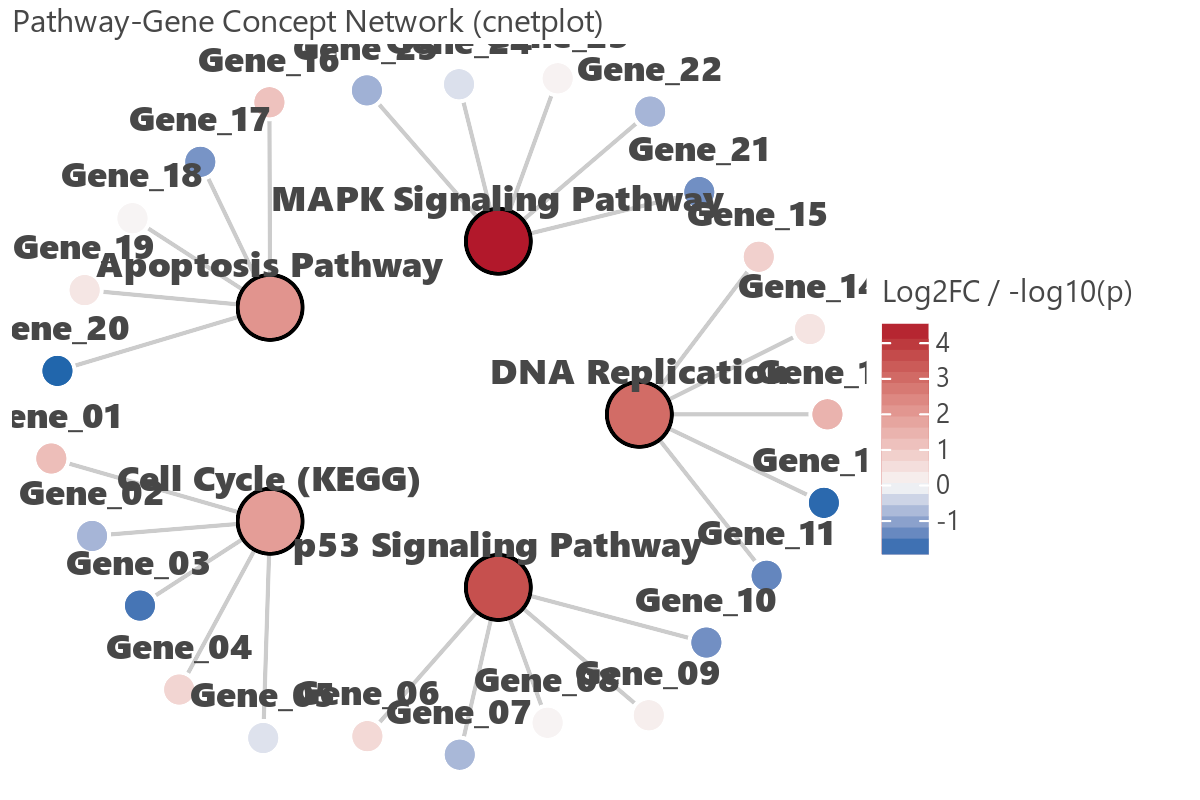
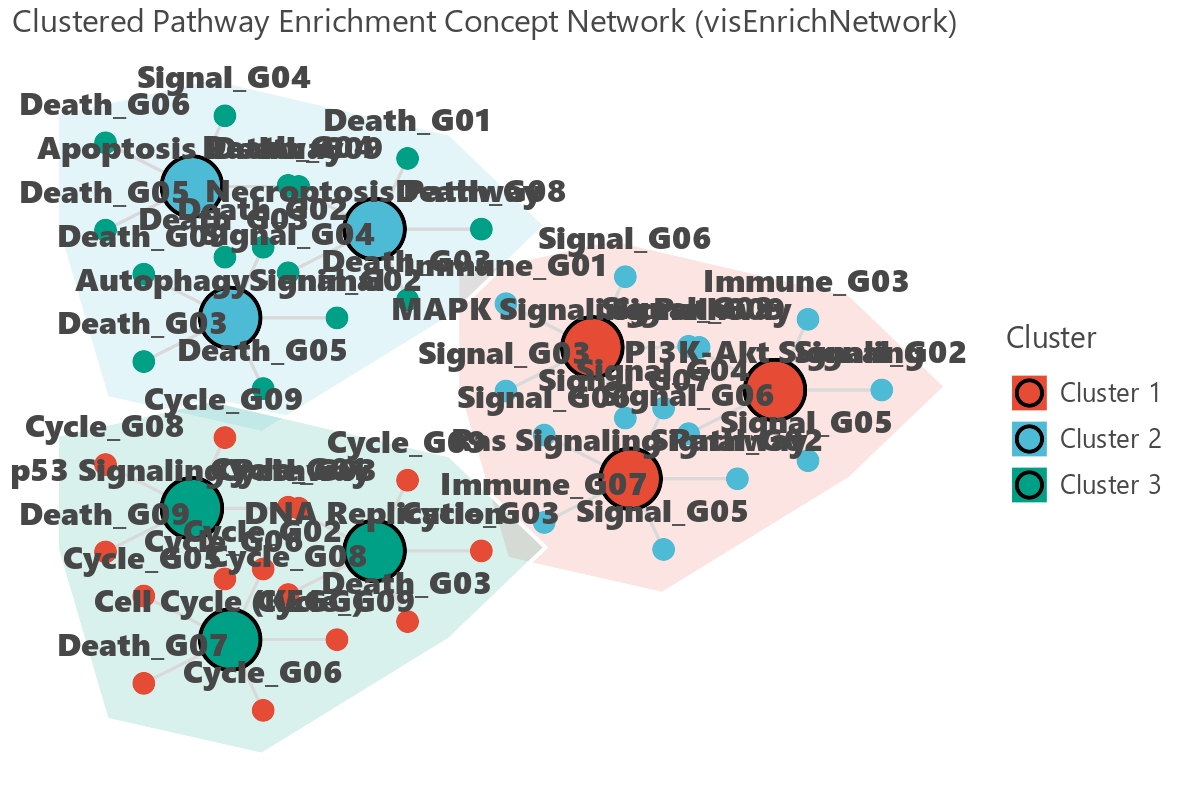
feat: Add pathway clustering analysis & convex hull background polygons for enrichment network chart

diff --git a/src/letspubpy/plots.py b/src/letspubpy/plots.py
@@ -1,7 +1,8 @@
 import numpy as np
 import pandas as pd
 from scipy import stats as _scipy_stats
-from scipy.spatial.distance import pdist as _pdist
+from scipy.spatial import ConvexHull as _ConvexHull
+from scipy.spatial.distance import pdist as _pdist, squareform as _squareform
 from scipy.cluster.hierarchy import linkage as _linkage, dendrogram as _dendrogram, fcluster as _fcluster
 from scipy.ndimage import gaussian_filter1d as _gaussian_filter1d
 from lets_plot import (
@@ -2222,7 +2223,7 @@ ggblitzgsea = blitzgsea_plot
 # GSEA / ORA Enrichment Lollipop & Concept Network Visualization
 # ==============================================================================
 
-def sim_enrichment_data(n_terms=10, seed=42):
+def sim_enrichment_data(n_terms=9, seed=42):
     """
     Simulate synthetic pathway enrichment dataset (GO/KEGG/Reactome) for lollipop & network charts.
     Returns DataFrame with columns: Term, Count, p.adjust, RichFactor, Genes, Log2FC.
@@ -2230,22 +2231,30 @@ def sim_enrichment_data(n_terms=10, seed=42):
     np.random.seed(seed)
     pathways = [
         'Cell Cycle (KEGG)', 'p53 Signaling Pathway', 'DNA Replication',
-        'Apoptosis Pathway', 'MAPK Signaling Pathway', 'PI3K-Akt Signaling',
-        'NF-kappa B Signaling', 'Toll-like Receptor', 'FoxO Signaling Pathway',
-        'JAK-STAT Signaling', 'Autophagy - animal', 'Mitophagy - animal'
+        'Apoptosis Pathway', 'Necroptosis Pathway', 'Autophagy - animal',
+        'MAPK Signaling Pathway', 'PI3K-Akt Signaling', 'Ras Signaling Pathway',
+        'NF-kappa B Signaling', 'Toll-like Receptor', 'FoxO Signaling Pathway'
     ]
     terms = pathways[:min(n_terms, len(pathways))]
     
-    counts = np.random.randint(8, 45, size=len(terms))
-    pvals = 10 ** (-np.random.uniform(1.5, 6.0, size=len(terms)))
+    counts = np.random.randint(12, 45, size=len(terms))
+    pvals = 10 ** (-np.random.uniform(1.8, 6.5, size=len(terms)))
     rich_factors = counts / np.random.randint(60, 150, size=len(terms))
     
+    gene_pools = {
+        0: [f'Cycle_G{j:02d}' for j in range(1, 10)],
+        1: [f'Death_G{j:02d}' for j in range(1, 10)],
+        2: [f'Signal_G{j:02d}' for j in range(1, 10)],
+        3: [f'Immune_G{j:02d}' for j in range(1, 10)]
+    }
+
     genes_list = []
-    gene_counter = 1
-    for count in counts:
-        hit_genes = [f"Gene_{gene_counter + j:02d}" for j in range(min(5, count // 3))]
-        gene_counter += min(5, count // 3)
-        genes_list.append(";".join(hit_genes))
+    for i, term in enumerate(terms):
+        c_idx = (i // 3) % len(gene_pools)
+        main_genes = list(np.random.choice(gene_pools[c_idx], size=4, replace=False))
+        cross_pool = gene_pools[(c_idx + 1) % len(gene_pools)]
+        main_genes.append(np.random.choice(cross_pool))
+        genes_list.append(";".join(main_genes))
 
     df = pd.DataFrame({
         'Term': terms,
@@ -2317,100 +2326,168 @@ gglollipop_enrich = visEnrichLollipop
 
 def visEnrichNetwork(
     data=None,
-    top_n=5,
+    top_n=9,
     genes_per_term=4,
+    cluster_pathways=True,
+    n_clusters=3,
+    show_hulls=True,
+    cluster_palette='npg',
     palette='bwr',
-    title='Enrichment Pathway-Gene Concept Network (cnetplot)',
+    title='Clustered Pathway Enrichment Concept Network (cnetplot)',
     **kwargs
 ):
     """
-    Visualize Pathway-Gene Concept Network (cnetplot / network图) connecting enriched pathways with hit genes.
-    If data is None, automatically generates synthetic network data.
+    Visualize Pathway-Gene Concept Network (cnetplot / network图) with pathway clustering analysis.
+    Performs hierarchical clustering on pathway gene-overlap Jaccard distance matrix.
     """
     if data is None:
         df_enrich = sim_enrichment_data(n_terms=top_n)
     else:
         df_enrich = data.head(top_n).copy()
 
-    nodes = []
-    edges = []
     pathways = df_enrich['Term'].tolist()[:top_n]
     n_terms = len(pathways)
-    t_angles = np.linspace(0, 2*np.pi, n_terms, endpoint=False)
-    r_pathway = 4.0
-    
-    pathway_coords = {}
     np.random.seed(42)
 
+    # Build gene hits mapping for each pathway
+    term_genes = {}
+    for p_name in pathways:
+        p_row = df_enrich[df_enrich['Term'] == p_name].iloc[0] if 'Term' in df_enrich.columns else None
+        if p_row is not None and 'Genes' in p_row and pd.notna(p_row['Genes']):
+            genes = set(str(p_row['Genes']).split(';'))
+        else:
+            genes = set([f'{p_name[:3]}_Gene_{j+1:02d}' for j in range(genes_per_term)])
+        term_genes[p_name] = genes
+
+    # Clustering analysis if enabled
+    if cluster_pathways and n_terms >= 3:
+        n_clusters = min(n_clusters, n_terms // 2 if n_terms >= 4 else 2)
+        dist_mat = np.zeros((n_terms, n_terms))
+        for i in range(n_terms):
+            for j in range(n_terms):
+                if i != j:
+                    g1, g2 = term_genes[pathways[i]], term_genes[pathways[j]]
+                    jaccard = len(g1 & g2) / max(1, len(g1 | g2))
+                    dist_mat[i, j] = 1.0 - jaccard
+
+        Z = _linkage(_squareform(dist_mat), method='ward')
+        cluster_labels = _fcluster(Z, t=n_clusters, criterion='maxclust')
+    else:
+        n_clusters = 1
+        cluster_labels = np.ones(n_terms, dtype=int)
+
+    # Layout coordinates
+    cluster_centers = {}
+    c_angles = np.linspace(0, 2*np.pi, n_clusters, endpoint=False)
+    r_cluster = 6.0 if n_clusters > 1 else 0.0
+
+    for c_id in range(1, n_clusters + 1):
+        cluster_centers[c_id] = (r_cluster * np.cos(c_angles[c_id - 1]), r_cluster * np.sin(c_angles[c_id - 1]))
+
+    nodes = []
+    edges = []
+
+    # Map pathways per cluster for angular distribution
+    cluster_term_counts = {}
+    cluster_term_idx = {}
+    for c_id in range(1, n_clusters + 1):
+        c_terms = [pathways[k] for k in range(n_terms) if cluster_labels[k] == c_id]
+        cluster_term_counts[c_id] = len(c_terms)
+        cluster_term_idx[c_id] = 0
+
     for i, p_name in enumerate(pathways):
-        x = r_pathway * np.cos(t_angles[i])
-        y = r_pathway * np.sin(t_angles[i])
-        pathway_coords[p_name] = (x, y)
+        c_id = cluster_labels[i]
+        cx, cy = cluster_centers[c_id]
+        c_total = cluster_term_counts[c_id]
+        idx_in_c = cluster_term_idx[c_id]
+        cluster_term_idx[c_id] += 1
+
+        if c_total > 1:
+            sub_angle = idx_in_c * (2 * np.pi / c_total) + 0.2
+            px = cx + 2.5 * np.cos(sub_angle)
+            py = cy + 2.5 * np.sin(sub_angle)
+        else:
+            px, py = cx, cy
 
         p_row = df_enrich[df_enrich['Term'] == p_name].iloc[0] if 'Term' in df_enrich.columns else None
         p_val = float(p_row['neg_log10_p']) if p_row is not None and 'neg_log10_p' in p_row else np.random.uniform(2.0, 5.0)
 
         nodes.append({
             'name': p_name,
-            'x': x,
-            'y': y,
+            'x': px,
+            'y': py,
             'node_type': 'Pathway',
-            'size': 14.0,
+            'Cluster': f'Cluster {c_id}',
+            'size': 13.0,
             'color_val': p_val,
             'label': p_name
         })
 
-        # Gene nodes
-        if p_row is not None and 'Genes' in p_row and pd.notna(p_row['Genes']):
-            genes = str(p_row['Genes']).split(';')
-        else:
-            genes = [f'{p_name[:3]}_Gene_{j+1}' for j in range(genes_per_term)]
+        g_list = list(term_genes[p_name])
+        g_count = len(g_list)
+        g_angles = np.linspace(0, 2*np.pi, g_count, endpoint=False)
+        r_gene = 2.4
 
-        g_count = len(genes)
-        g_angles = t_angles[i] + np.linspace(-0.5, 0.5, g_count)
-        r_gene = 7.5 + np.random.uniform(-0.4, 0.4, size=g_count)
-
-        for j, g_name in enumerate(genes):
-            gx = r_gene[j] * np.cos(g_angles[j])
-            gy = r_gene[j] * np.sin(g_angles[j])
+        for j, g_name in enumerate(g_list):
+            gx = px + r_gene * np.cos(g_angles[j])
+            gy = py + r_gene * np.sin(g_angles[j])
 
             nodes.append({
                 'name': g_name,
                 'x': gx,
                 'y': gy,
                 'node_type': 'Gene',
+                'Cluster': f'Cluster {c_id}',
                 'size': 6.0,
                 'color_val': np.random.uniform(-2.0, 2.0),
                 'label': g_name
             })
 
-            edges.append({
-                'x': x,
-                'y': y,
-                'xend': gx,
-                'yend': gy,
-                'pathway': p_name
-            })
+            edges.append({'x': px, 'y': py, 'xend': gx, 'yend': gy})
 
     df_nodes = pd.DataFrame(nodes)
     df_edges = pd.DataFrame(edges)
 
-    p_net = (
-        _ggplot() +
-        geom_segment(data=df_edges, mapping=aes(x='x', y='y', xend='xend', yend='yend'),
-                     color='gray80', size=0.8) +
-        geom_point(data=df_nodes[df_nodes['node_type'] == 'Gene'],
-                   mapping=aes(x='x', y='y', fill='color_val'),
-                   shape=21, size=7, color='white') +
-        geom_point(data=df_nodes[df_nodes['node_type'] == 'Pathway'],
-                   mapping=aes(x='x', y='y', fill='color_val'),
-                   shape=21, size=14, color='black') +
-        geom_text(data=df_nodes, mapping=aes(x='x', y='y', label='label'),
-                  size=9, vjust=-1.2, fontface='bold') +
-        scale_fill_gradient2(low='#2166AC', mid='#F7F7F7', high='#B2182B', midpoint=0, name='Log2FC / -log10(p)') +
-        theme_void() +
-        ggtitle(title)
-    )
+    p_net = _ggplot()
+
+    # Convex hull polygons for cluster background
+    if show_hulls and n_clusters > 1:
+        hull_rows = []
+        for c_id_str, group in df_nodes.groupby('Cluster'):
+            points = group[['x', 'y']].values
+            if len(points) >= 3:
+                try:
+                    hull = _ConvexHull(points)
+                    hull_points = points[hull.vertices]
+                    center = hull_points.mean(axis=0)
+                    poly = center + (hull_points - center) * 1.3
+                    for pt in poly:
+                        hull_rows.append({'x': pt[0], 'y': pt[1], 'Cluster': c_id_str})
+                except Exception:
+                    pass
+        if hull_rows:
+            df_hulls = pd.DataFrame(hull_rows)
+            p_net += geom_polygon(data=df_hulls, mapping=aes(x='x', y='y', fill='Cluster'), alpha=0.15)
+            p_net += scale_fill_pubr(cluster_palette)
+
+    p_net += geom_segment(data=df_edges, mapping=aes(x='x', y='y', xend='xend', yend='yend'), color='gray85', size=0.6)
+
+    if cluster_pathways and n_clusters > 1:
+        p_net += geom_point(data=df_nodes[df_nodes['node_type'] == 'Gene'],
+                            mapping=aes(x='x', y='y', color='Cluster'), size=5, shape=19)
+        p_net += geom_point(data=df_nodes[df_nodes['node_type'] == 'Pathway'],
+                            mapping=aes(x='x', y='y', fill='Cluster'), size=13, shape=21, color='black')
+        p_net += scale_color_pubr(cluster_palette)
+    else:
+        p_net += geom_point(data=df_nodes[df_nodes['node_type'] == 'Gene'],
+                            mapping=aes(x='x', y='y', fill='color_val'), shape=21, size=6, color='white')
+        p_net += geom_point(data=df_nodes[df_nodes['node_type'] == 'Pathway'],
+                            mapping=aes(x='x', y='y', fill='color_val'), shape=21, size=13, color='black')
+        p_net += scale_fill_gradient2(low='#2166AC', mid='#F7F7F7', high='#B2182B', midpoint=0, name='Log2FC / -log10(p)')
+
+    p_net += geom_text(data=df_nodes, mapping=aes(x='x', y='y', label='label'), size=8, vjust=-1.2, fontface='bold')
+    p_net += theme_void()
+    p_net += ggtitle(title)
 
     return p_net
 
